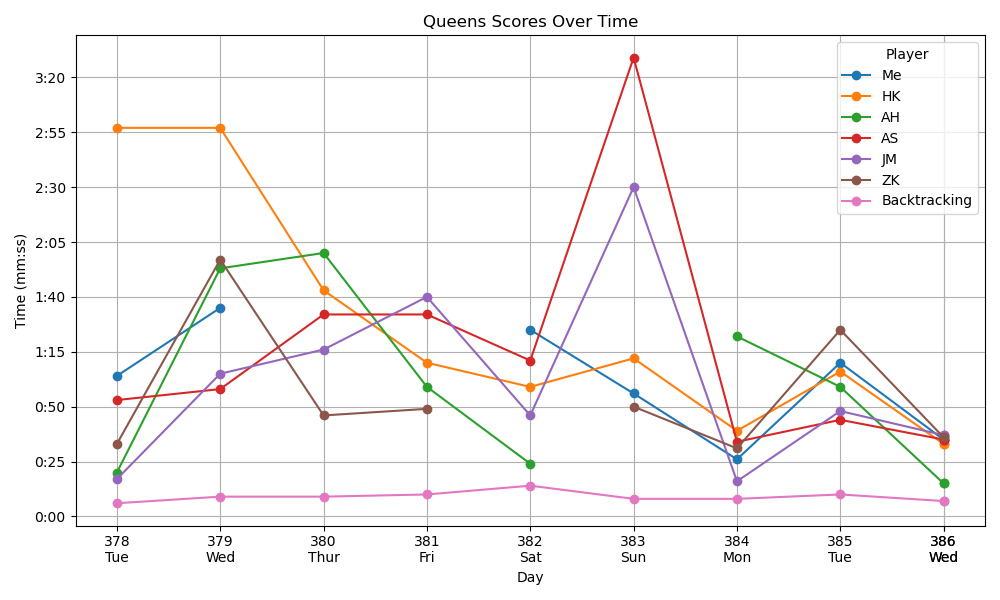
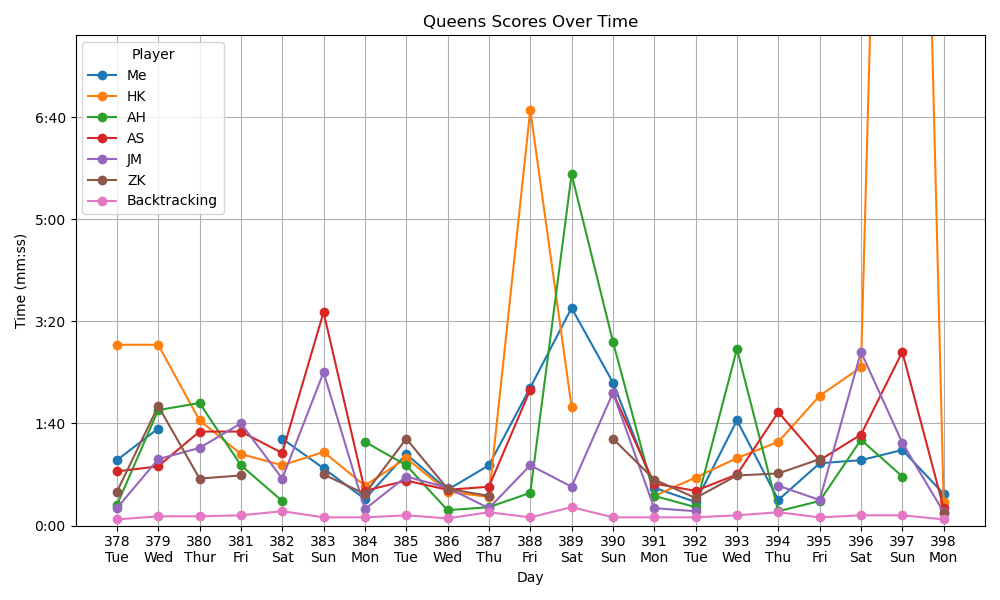
Fixed bugs: Scale of y axis, previous score sending, not mixing days of score sending. Started q learning

diff --git a/Queens/Logic/Solvers/q_learning.py b/Queens/Logic/Solvers/q_learning.py
@@ -1,0 +1,131 @@
+"""
+Q-Learning implementation for the Queens puzzle solver.
+This implementation learns from training data to solve queen placement puzzles
+of various sizes while respecting color region constraints, row and column constraints
+and no queen can be adjacent to another.
+"""
+
+import os
+import ast
+import numpy as np
+import random
+
+# Hyperparameters
+alpha = 0.1
+gamma = 0.9
+epsilon = 0.2
+episodes = 10000
+invalid_move_penalty = -10
+valid_move_reward = 1
+success_reward = 100
+
+# File paths
+metadata_dir = "Queens\Logic\Solvers\RL_Resources\Training_Data\Metadata"
+weights_dir = "Queens\Logic\Solvers\RL_Resources/Weights"
+os.makedirs(weights_dir, exist_ok=True)
+
+# Parse board from uploaded file
+def parse_board_from_file(file_path):
+    with open(file_path, "r") as f:
+        content = f.read()
+    board_str = content.split("solved_board")[0].strip()
+    board_data = ast.literal_eval(board_str.split(" = ")[1])
+    return np.array(board_data)
+
+# Get state key for Q-table
+def get_q_table_key(board):
+    return ''.join(map(str, board.flatten()))
+
+# Check if placing a queen is valid
+def is_valid(board, r, c):
+    N = board.shape[0]
+    if board[r, c] == 1:
+        return False
+    for i in range(N):
+        if board[i, c] == 1 or board[r, i] == 1:
+            return False
+    for i in range(-N, N):
+        if 0 <= r+i < N and 0 <= c+i < N and board[r+i, c+i] == 1:
+            return False
+        if 0 <= r+i < N and 0 <= c-i < N and board[r+i, c-i] == 1:
+            return False
+    return True
+
+# Load boards
+file_list = ["queens3.txt", "queens8.txt", "queens11.txt"]
+training_boards = [parse_board_from_file(os.path.join(metadata_dir, f)) for f in file_list]
+
+# Q-learning loop
+Q = {}
+for ep in range(episodes):
+    board = random.choice(training_boards).copy()
+    N = board.shape[0]
+    state_key = get_q_table_key(board)
+    done = False
+    steps = 0
+
+    while not done and steps < N * N:
+        if state_key not in Q:
+            Q[state_key] = np.zeros((N, N))
+
+        if random.random() < epsilon:
+            action = (random.randint(0, N-1), random.randint(0, N-1))
+        else:
+            action = np.unravel_index(np.argmax(Q[state_key]), (N, N))
+
+        r, c = action
+        steps += 1
+
+        if is_valid(board, r, c):
+            board[r, c] = 1
+            reward = valid_move_reward
+            next_state_key = get_q_table_key(board)
+            if np.sum(board) == N:
+                reward = success_reward
+                done = True
+            if next_state_key not in Q:
+                Q[next_state_key] = np.zeros((N, N))
+            Q[state_key][r, c] += alpha * (reward + gamma * np.max(Q[next_state_key]) - Q[state_key][r, c])
+            state_key = next_state_key
+        else:
+            reward = invalid_move_penalty
+            Q[state_key][r, c] += alpha * (reward - Q[state_key][r, c])
+            done = True
+
+# Save the Q-table
+np.save(os.path.join(weights_dir, "queens_q_table.npy"), Q)
+
+print("Saved")
+
+# Load the Q-table if needed
+Q = np.load(os.path.join(weights_dir, "queens_q_table.npy"), allow_pickle=True).item()
+
+# Test board (let's use queens8.txt as an example)
+test_board = parse_board_from_file(os.path.join(metadata_dir, "queens8.txt"))
+N = test_board.shape[0]
+board = np.zeros((N, N), dtype=int)
+state_key = get_q_table_key(board)
+solution = []
+
+for _ in range(N * N):
+    if state_key not in Q:
+        print("State not found in Q-table. Aborting.")
+        break
+
+    action = np.unravel_index(np.argmax(Q[state_key]), (N, N))
+    r, c = action
+
+    if not is_valid(board, r, c):
+        print(f"Invalid move at ({r}, {c}). Aborting.")
+        break
+
+    board[r, c] = 1
+    solution.append((r, c))
+    if len(solution) == N:
+        print("Found solution:")
+        print(solution)
+        break
+
+    state_key = get_q_table_key(board)
+else:
+    print("Failed to find complete solution.")

diff --git a/Queens/Logic/plot_scores.py b/Queens/Logic/plot_scores.py
@@ -5,6 +5,7 @@ import csv
 import re
 import pandas as pd
 import matplotlib.pyplot as plt
+from matplotlib.ticker import FuncFormatter
 
 project_root = Path(__file__).resolve().parent.parent
 load_dotenv(dotenv_path=project_root / ".env") 
@@ -25,13 +26,26 @@ alias_dict = {
 
 
 def prepare_csv(results):
-    day_match = re.search(r'Queens\s+#(\d+)', results[0][1])
-    day = int(day_match.group(1)) if day_match else None
+    # Extract all Queens numbers from results
+    day_numbers = []
+    for _, text in results:
+        match = re.search(r'Queens\s+#(\d+)', text)
+        if match:
+            day_numbers.append(int(match.group(1)))
 
-    dow = get_dow(day)
+    if not day_numbers:
+        raise ValueError("No Queens numbers found in results.")
 
-    row = {"Day": day, "DoW": dow}
+    # Use the highest day number (latest puzzle)
+    latest_day = max(day_numbers)
+    dow = get_dow(latest_day)
+
+    row = {"Day": latest_day, "DoW": dow}
+
     for name, text in results:
+        if f'Queens #{latest_day}' not in text:
+            continue  # Skip if it's not from the latest puzzle
+
         alias_key = name_to_env_key(name)
         alias = alias_dict.get(alias_key)
 
@@ -44,6 +58,38 @@ def prepare_csv(results):
 
     print(f"Row obtained: {row}")
     return row
+
+def backfill_previous_day(results, latest_day):
+    previous_day = latest_day - 1
+    csv_file = project_root / "scores.csv"
+
+    if not csv_file.exists():
+        return  # Nothing to backfill
+
+    df = pd.read_csv(csv_file)
+    if previous_day not in df["Day"].values:
+        return  # No row to update
+
+    prev_idx = df.index[df["Day"] == previous_day][0]
+    modified = False
+
+    for name, text in results:
+        if f'Queens #{previous_day}' not in text:
+            continue
+
+        alias_key = name_to_env_key(name)
+        alias = alias_dict.get(alias_key)
+
+        if alias and alias in df.columns and pd.isna(df.at[prev_idx, alias]):
+            score_match = re.search(r'(\d{1,2}:\d{2})', text)
+            if score_match:
+                df.at[prev_idx, alias] = score_match.group(1)
+                print(f"[Backfill] Inserted {alias}'s score into Day {previous_day}")
+                modified = True
+
+    if modified:
+        df.to_csv(csv_file, index=False)
+        print(f"[Backfill] Updated Day {previous_day} in {csv_file.name}")
 
 def write_csv(results):
     row = prepare_csv(results)
@@ -67,9 +113,11 @@ def write_csv(results):
 
     print(f"Row written to {csv_file.name}: {row}")
 
+    backfill_previous_day(results, row["Day"])
+
 def plot_graph():
     # Load CSV
-    df = pd.read_csv("Queens/scores.csv")
+    df = pd.read_csv(project_root / "scores.csv")
 
     # Convert mm:ss to total seconds
     def time_to_seconds(t):
@@ -93,23 +141,25 @@ def plot_graph():
         if col not in ["Day", "DoW"]:
             plt.plot(df_seconds["Day"], df_seconds[col], marker='o', label=col)
 
-    # Set x-axis labels with Day and DoW
     ax = plt.gca()
+
+    # Set x-axis labels with Day and DoW
     x_ticks = df_seconds["Day"]
     x_labels = [f"{day}\n{dow}" for day, dow in zip(df_seconds["Day"], df_seconds["DoW"])]
     ax.set_xticks(x_ticks)
     ax.set_xticklabels(x_labels)
 
-    # Format y-ticks manually to mm:ss
-    y_ticks = ax.get_yticks()
-    y_labels = []
-    for val in y_ticks:
-        if pd.isna(val) or val < 0:
-            y_labels.append('')
-        else:
-            m, s = divmod(int(val), 60)
-            y_labels.append(f"{m}:{s:02}")
-    ax.set_yticklabels(y_labels)
+    # Set y-axis limit to 5 minutes
+    ax.set_ylim(0, 480)
+
+    # Format y-axis ticks to mm:ss
+    def format_mmss(x, _):
+        if x < 0 or pd.isna(x):
+            return ''
+        m, s = divmod(int(x), 60)
+        return f"{m}:{s:02}"
+
+    ax.yaxis.set_major_formatter(FuncFormatter(format_mmss))
 
     # Labels and styling
     plt.xlabel("Day")

diff --git a/Queens/score_sharer.py b/Queens/score_sharer.py
@@ -1,7 +1,7 @@
-from Queens.Logic.game_scraper import initialise_driver
-from Queens.Logic.scrape_scores_from_messages import score_scraper
-from Queens.Logic.plot_scores import write_csv, plot_graph
-from Queens.Logic.upload_and_share_plot import upload_plot
+from Logic.game_scraper import initialise_driver
+from Logic.scrape_scores_from_messages import score_scraper
+from Logic.plot_scores import write_csv, plot_graph
+from Logic.upload_and_share_plot import upload_plot
 
 def main(cookie_file, name):
     driver = initialise_driver(cookie_file)

diff --git a/Queens/Logic/game_inputter.py b/Queens/Logic/game_inputter.py
@@ -35,7 +35,7 @@ def input_solution(driver, solution):
                 c = int(match.group(2))
                 if r == row and c == col:
                     print(f"Placing queen at row {r}, col {c}")
-                    actions.move_to_element(cell).pause(0.07).double_click().perform()
+                    actions.move_to_element(cell).pause(0.05).double_click().perform()
                     time.sleep(0.05)
                     found = True
                     break

diff --git a/Queens/queens_solver.py b/Queens/queens_solver.py
@@ -35,7 +35,7 @@ def main(cookie_file, name):
     solution = backtracking(board, N)
 
     print(solution)
-    solution_1_indexed = [(r + 1, c + 1) for r, c in sorted(solution)] # Sorted purely for visual purposes
+    solution_1_indexed = [(r + 1, c + 1) for r, c in solution]
     input_solution(driver, solution_1_indexed)
 
     time.sleep(5)

diff --git a/Queens/Logic/scrape_scores_from_messages.py b/Queens/Logic/scrape_scores_from_messages.py
@@ -6,7 +6,7 @@ from bs4 import BeautifulSoup
 import time
 import re
 
-def scroll_chat(driver, key_presses=200, pause=0.03):
+def scroll_chat(driver, key_presses=150, pause=0.03):
     """
     Function: Scrolls up the LinkedIn group chat to load more messages
 
